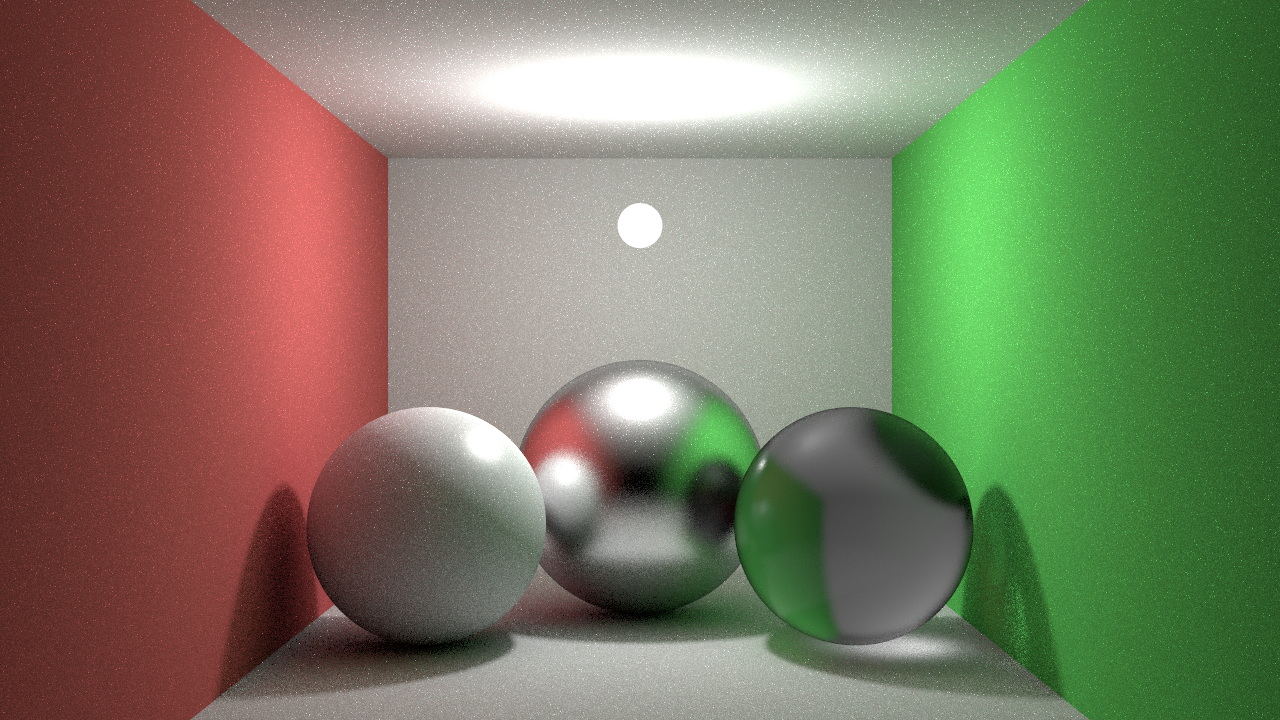
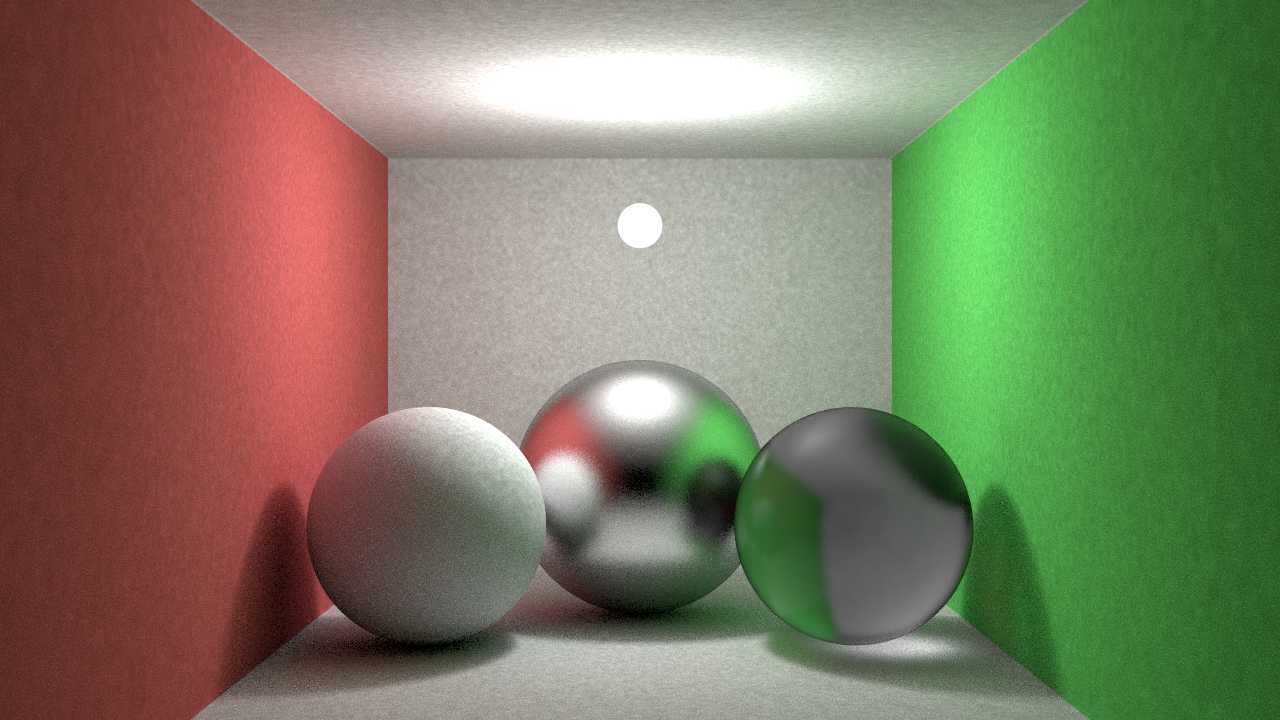
Got direct lighting working for photon mapping

diff --git a/src/materials.cpp b/src/materials.cpp
@@ -1,6 +1,8 @@
 #include "materials.h"
 #include "lights.h"
 #include "scene.h"
+#include "renderer.h"
+#include "photonmap.h"
 #include <iostream>
 
 namespace
@@ -19,27 +21,49 @@ Color MtlBlinn::Shade(ShadeInfo const &shadeInfo) const
 
     // Calculate color for this object
     const Color diffuseColor{ diffuse.Eval(shadeInfo.UVW()) };
-    for (int i{ 0 }; i < shadeInfo.NumLights(); ++i)
-    {
-        const Light* const light{ shadeInfo.GetLight(i) };
-        Vec3f lightDir;
-        Color lightIntensity{ light->Illuminate(shadeInfo, lightDir) };
-        if (light->IsAmbient())
-        {
-            finalColor += diffuseColor * lightIntensity;
-            continue;
-        }
 
-        const float geometryTerm{ std::max(0.0f, normal.Dot(lightDir)) };
+    Color lightIntensity;
+    Vec3f lightDir;
+    renderer.GetPhotonMap()->EstimateIrradiance<100>(lightIntensity, lightDir, 1.0f, shadeInfo.P(), normal, 1.0f);
+    //Color lightIntensity{ light->Illuminate(shadeInfo, lightDir) };
+    //if (light->IsAmbient())
+    //{
+    //    finalColor += diffuseColor * lightIntensity;
+    //    continue;
+    //}
 
-        if (geometryTerm < 0.0f) continue;
+    finalColor += (1.0f / M_PI) * diffuseColor * lightIntensity;
+    //const float geometryTerm{ std::max(0.0f, normal.Dot(lightDir)) };
 
-        finalColor += (1.0f / M_PI) * diffuseColor * lightIntensity * geometryTerm;
+    //if (geometryTerm >= 0.0f)
+    //{
+    //    finalColor += (1.0f / M_PI) * diffuseColor * lightIntensity * geometryTerm;
 
-        const Vec3f halfway{ (shadeInfo.V() + lightDir).GetNormalized() };
-        const float blinnTerm{ std::max(0.0f, normal.Dot(halfway)) };
-        finalColor += ((glossiness.GetValue() + 2) / (8.0f * M_PI)) * specular.GetValue() * pow(blinnTerm, glossiness.GetValue()) * lightIntensity * geometryTerm;
-    }
+    //    const Vec3f halfway{ (shadeInfo.V() + lightDir).GetNormalized() };
+    //    const float blinnTerm{ std::max(0.0f, normal.Dot(halfway)) };
+    //    finalColor += ((glossiness.GetValue() + 2) / (8.0f * M_PI)) * specular.GetValue() * pow(blinnTerm, glossiness.GetValue()) * lightIntensity * geometryTerm;
+    //}
+    //for (int i{ 0 }; i < shadeInfo.NumLights(); ++i)
+    //{
+    //    const Light* const light{ shadeInfo.GetLight(i) };
+    //    Vec3f lightDir;
+    //    Color lightIntensity{ light->Illuminate(shadeInfo, lightDir) };
+    //    if (light->IsAmbient())
+    //    {
+    //        finalColor += diffuseColor * lightIntensity;
+    //        continue;
+    //    }
+
+    //    const float geometryTerm{ std::max(0.0f, normal.Dot(lightDir)) };
+
+    //    if (geometryTerm < 0.0f) continue;
+
+    //    finalColor += (1.0f / M_PI) * diffuseColor * lightIntensity * geometryTerm;
+
+    //    const Vec3f halfway{ (shadeInfo.V() + lightDir).GetNormalized() };
+    //    const float blinnTerm{ std::max(0.0f, normal.Dot(halfway)) };
+    //    finalColor += ((glossiness.GetValue() + 2) / (8.0f * M_PI)) * specular.GetValue() * pow(blinnTerm, glossiness.GetValue()) * lightIntensity * geometryTerm;
+    //}
 
     if (!shadeInfo.CanBounce())
         return finalColor;

diff --git a/src/main.cpp b/src/main.cpp
@@ -300,7 +300,8 @@ int main()
         if (!photonMap.AddPhoton(hInfo.p, photonRay.dir, c))
             break;
     }
-    //PhotonMap.PrepareForIrradianceEstimation();
+    photonMap.ScalePhotonPowers(1.0f / static_cast<float>(photonMap.NumPhotons()));
+    photonMap.PrepareForIrradianceEstimation();
 
     // Render image
     const size_t numThreads{ std::thread::hardware_concurrency() };
